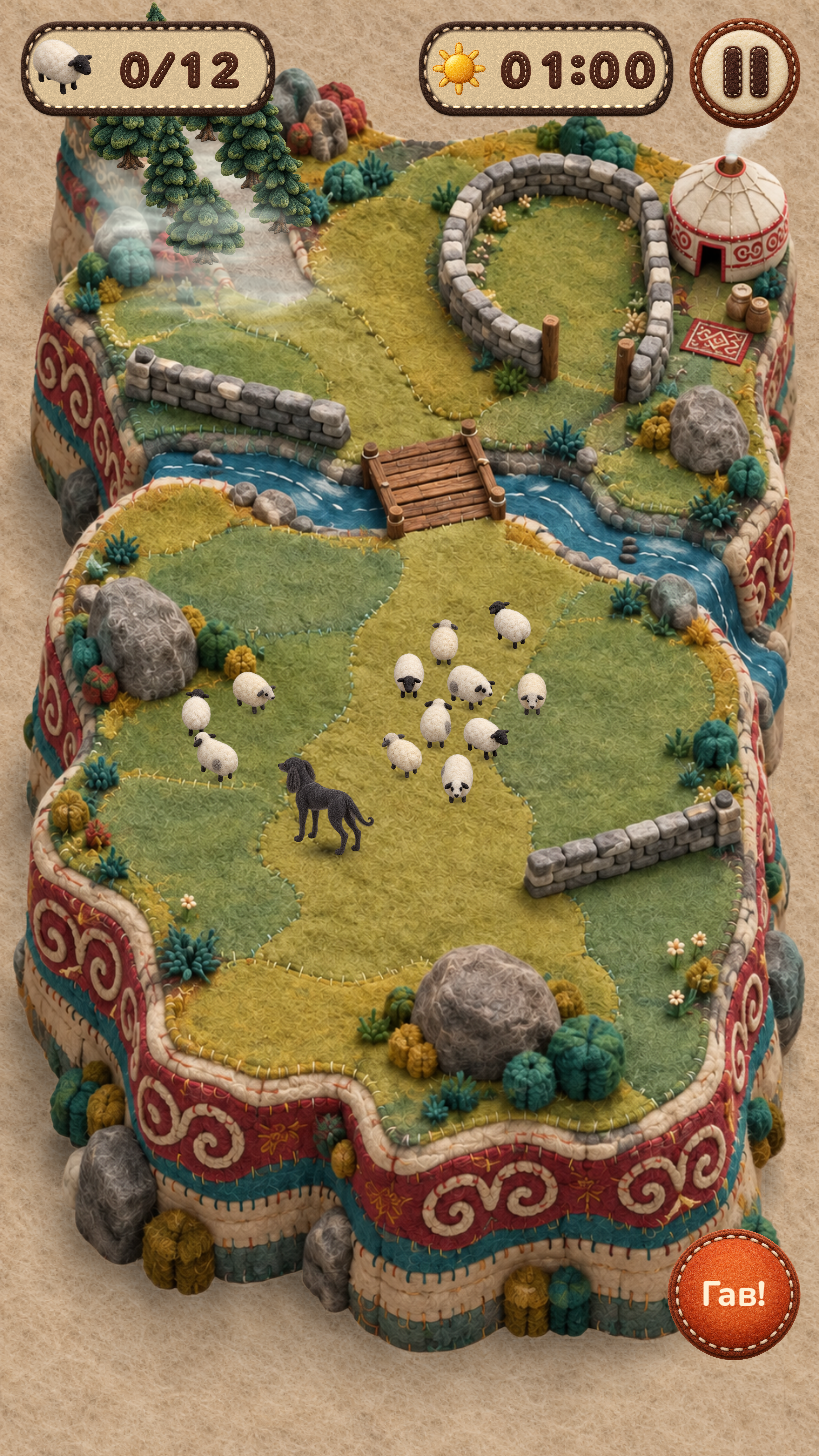
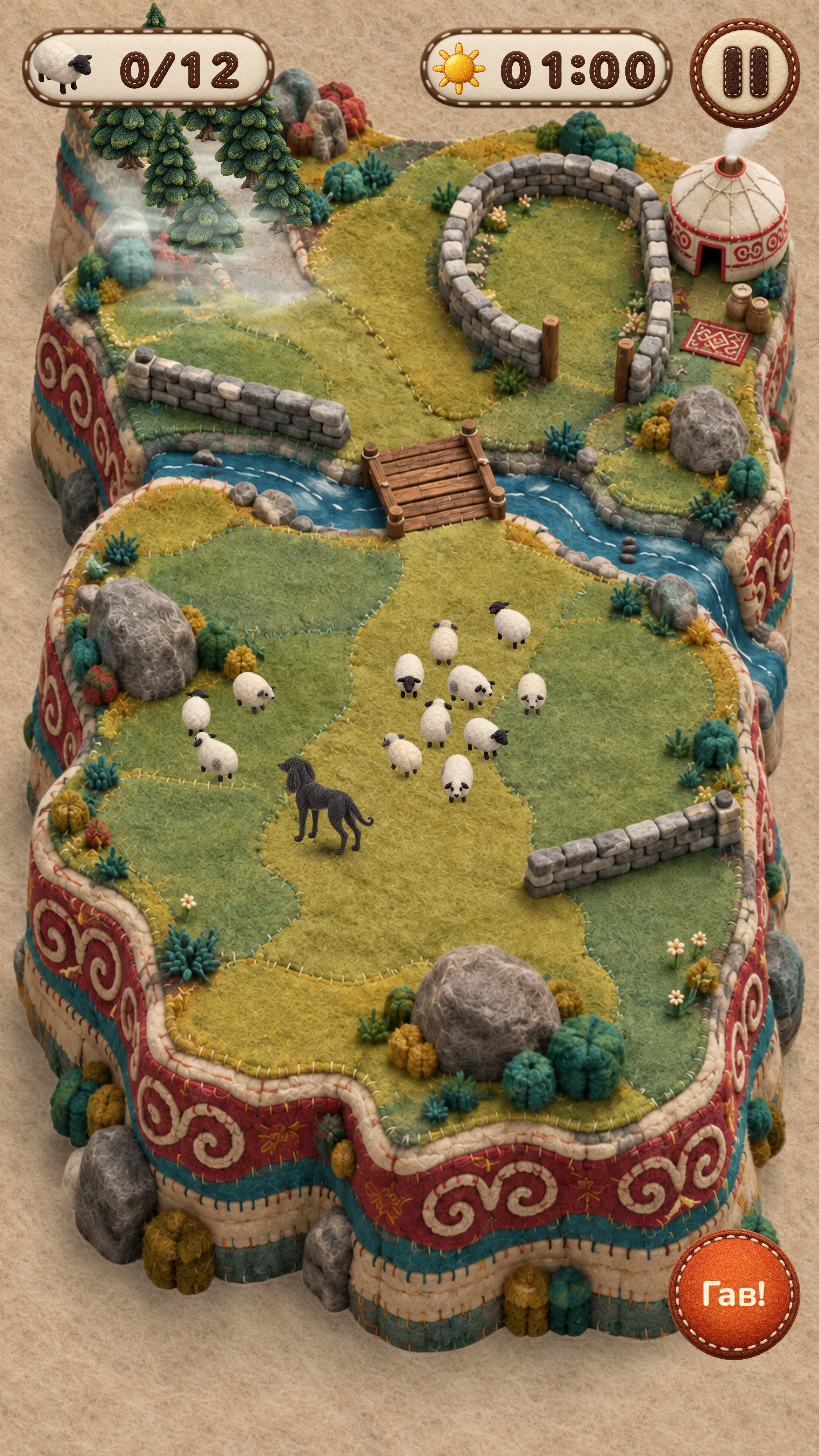
style: soften felt HUD panels with sparse stitching

Changed region(s): [[0.4884, 0.0, 0.8242, 0.0927], [0.0, 0.0, 0.3358, 0.0927]]

diff --git a/docs/menu-art-prompts.md b/docs/menu-art-prompts.md
@@ -1,5 +1,18 @@
 # Menu art prompts
 
+## hud-counter-felt — 2026-10-01
+
+Built-in image_gen. Final asset: `assets/ui/hud-counter-felt.png`. Used directly by the sheep counter and day/night timer, without the former recolouring shader. The icons and numeral atlases stay separate.
+
+Use case: stylized-concept.
+Asset type: one blank horizontal felt HUD counter panel for a handcrafted mobile game about a black Taigan dog and sheep in a Kyrgyz pasture.
+Primary request: redesign the counter background with soft plush ivory wool, a restrained narrow cocoa-brown felt edge and a single sparse row of large stitches. Elegant simple tactile wool craft, cohesive with sewn felt digits and round felt buttons.
+Composition: one front-facing horizontal rounded capsule, overall width to height exactly 2.5:1, on a real transparent canvas. The capsule fills 94% canvas width and 88% height. Rounded ends, gently raised cream felt face, broad completely quiet blank center for an icon and four numeric glyphs to be drawn by the game engine. Outline is smooth, never scalloped. Narrow chestnut brown layered felt rim, no more than 7% of panel height, subtly darker on the bottom to give soft volume. No hard bevel.
+Materials: dense matte ivory wool felt, fine low-contrast fibres, subtly puffy cushion, compact soft contact shadow. Clearly soft felt, not leather, not metal, not plastic.
+Stitches: exactly ONE row of thick warm cream running stitches sewn along the brown rim. About TEN long separate stitches along each long edge, with generous empty gaps about equal to stitch length, only three or four around each rounded end. Calm large sparse stitches, clearly visible at small mobile sizes. No second stitch row, no tiny dashed seam, no dense beading, no braided rope border.
+Palette: warm ivory center, quiet cocoa and cinnamon edge, creamy stitches. Premium polished stop-motion felt game aesthetic.
+Constraints: blank asset only. No text, no numbers, no symbols, no sheep, no sun, no moon, no ornament, no other objects. Real alpha transparency all around the panel. Avoid busy texture, gold trim, embossed decoration, shine, thin frequent stitch marks, multiple borders.
+
 HUD additions: `assets/ui/felt-digits-dark.png`, `assets/ui/felt-digits-light.png`, `assets/ui/bark-button-felt.png`. Both digit atlases contain twelve symbols in a 4×3 grid: `0123 / 4567 / 89:/`. The cooldown decimal uses the lower stitched dot from the colon. Glyph bounds are generated by `tools/build_felt_digit_metrics.gd`; the renderer reads `assets/ui/felt-digit-metrics.json` and draws the original atlas regions.
 
 ## felt-digits-dark

diff --git a/docs/verification.md b/docs/verification.md
@@ -1,5 +1,11 @@
 # Проверка 28.09.2026
 
+## Новые подложки счётчика и таймера — 1 октября 2026
+
+Старая подложка с частыми стежками заменена отдельным рисунком `assets/ui/hud-counter-felt.png`: мягкий светлый войлок, тонкий коричневый край, один ряд крупных редких стежков. Рисунок используется напрямую, без перекрашивания шейдером. Mipmaps и линейная фильтрация сохраняют спокойную строчку при уменьшении на мобильном экране.
+
+В Godot 4.7.2 просмотрены день, ночь и виртуальный экран 320×691 с проектным canvas_items / expand stretch. Иконки и войлочные цифры помещаются внутри подложек. Свежие кадры: `felt-counter-day-preview.png`, `felt-counter-preview.png`, `felt-hud-day.png`, `felt-hud-night-cooldown.png`, `felt-hud-mobile.png`. Все 21 проверки меню прошли. На физическом телефоне эта правка не проверялась.
+
 ## Войлочные цифры и перезарядка — 30 сентября 2026
 
 Счётчик отары и таймер рисуются отдельными тёмными войлочными цифрами со стежками. Добавлен второй, светлый набор для тёмных поверхностей; он используется на кнопке лая во время перезарядки. Межсимвольные интервалы фиксированы, поэтому отсчёт не прыгает по ширине. Двоеточие, дробная черта и десятичная точка тоже войлочные.
